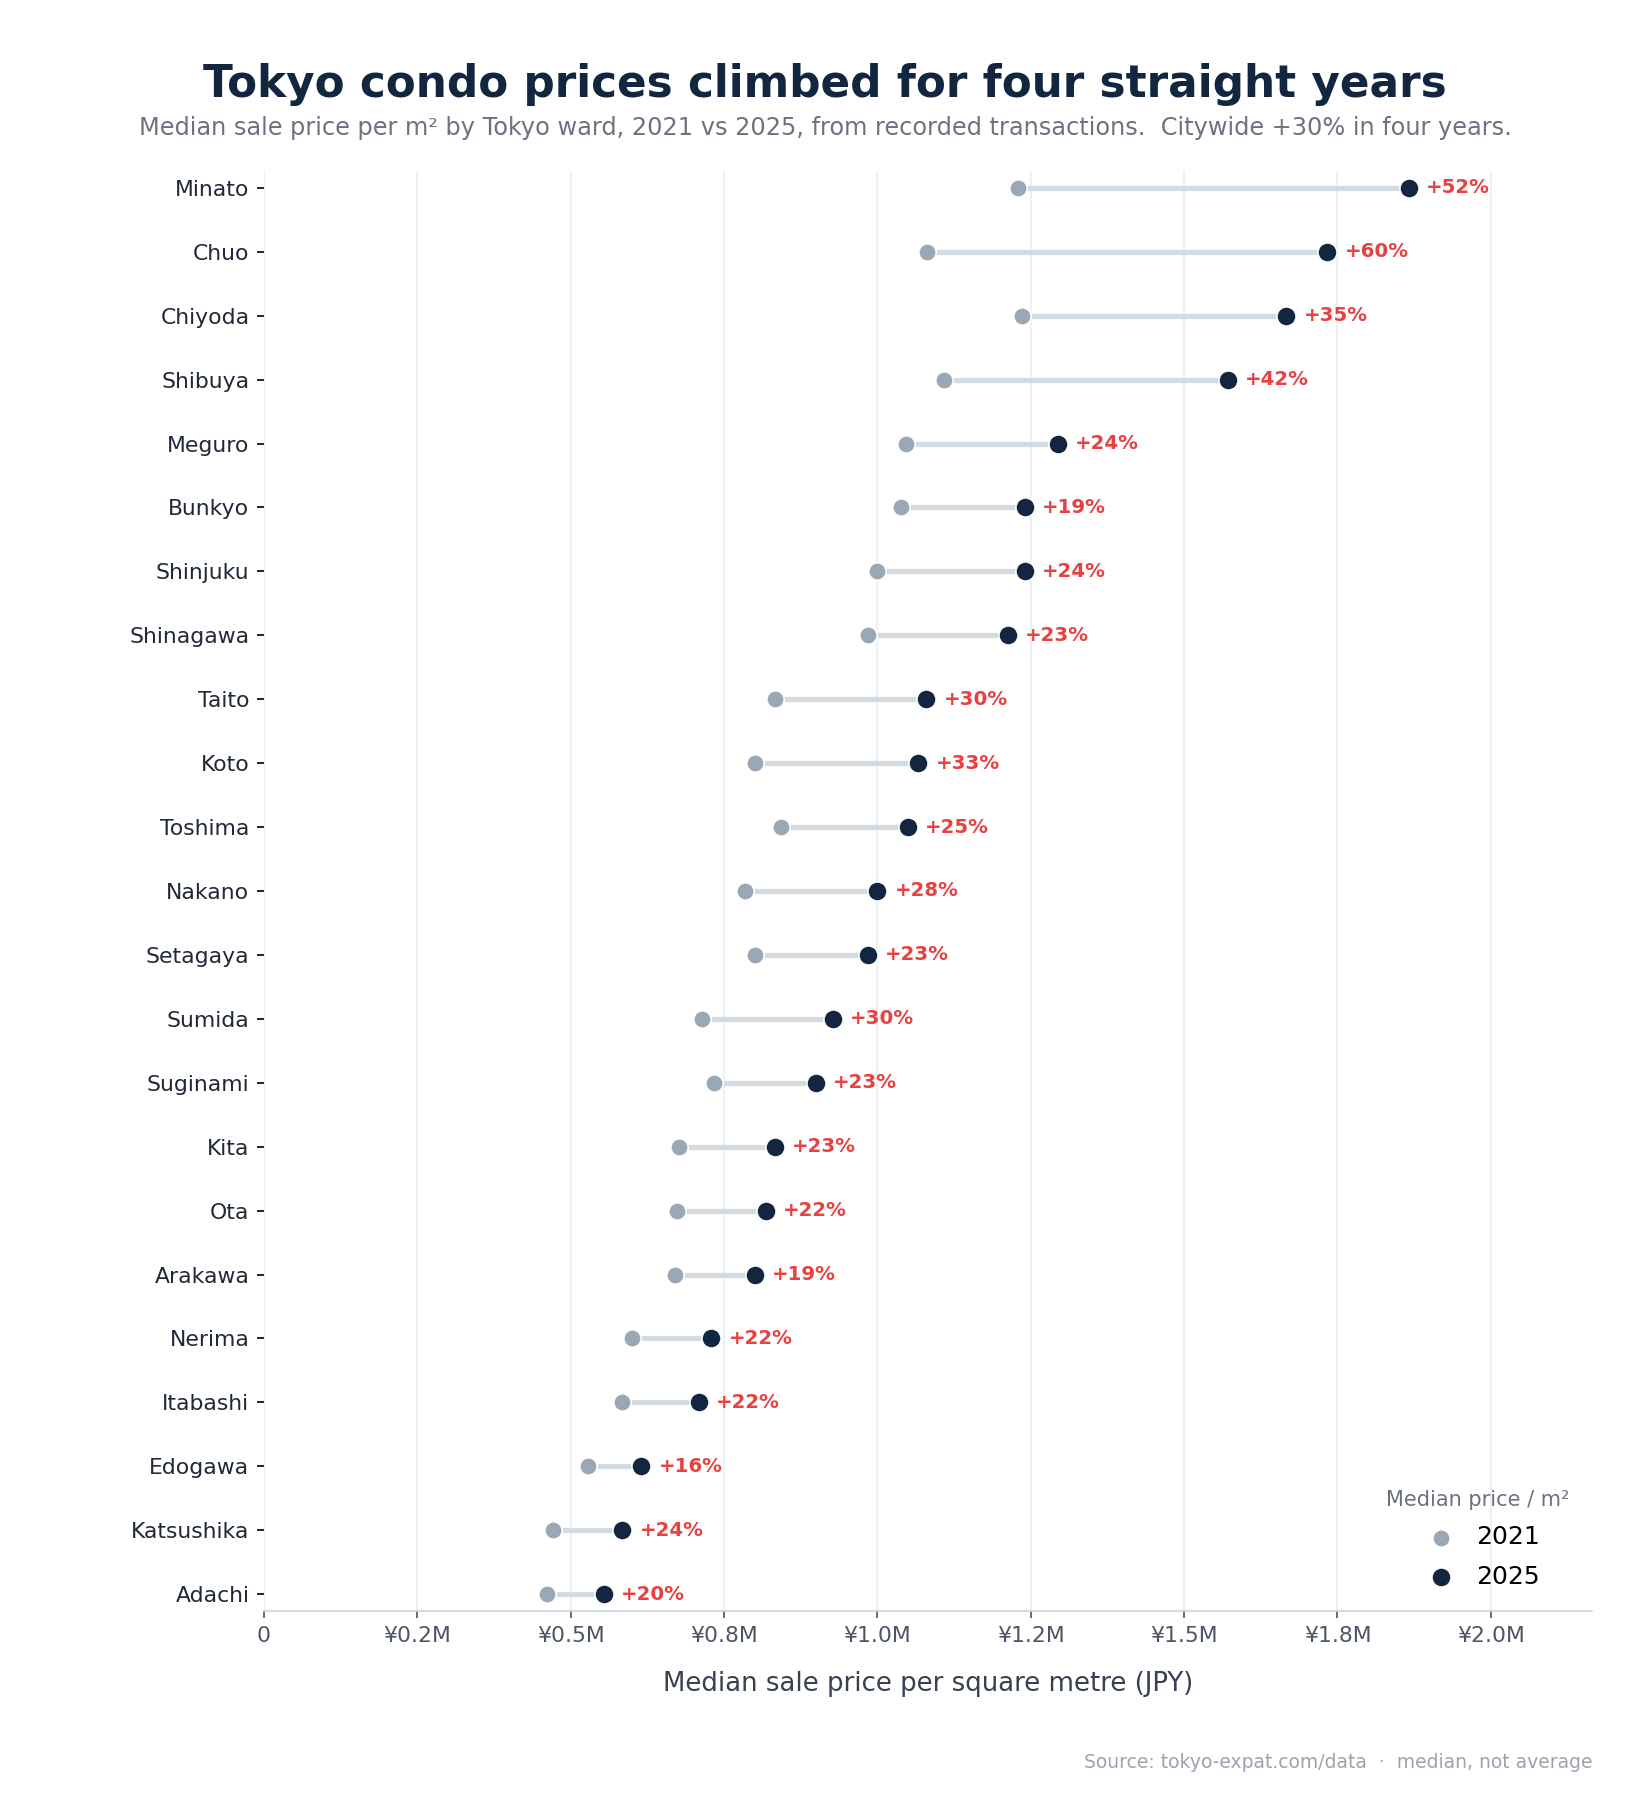
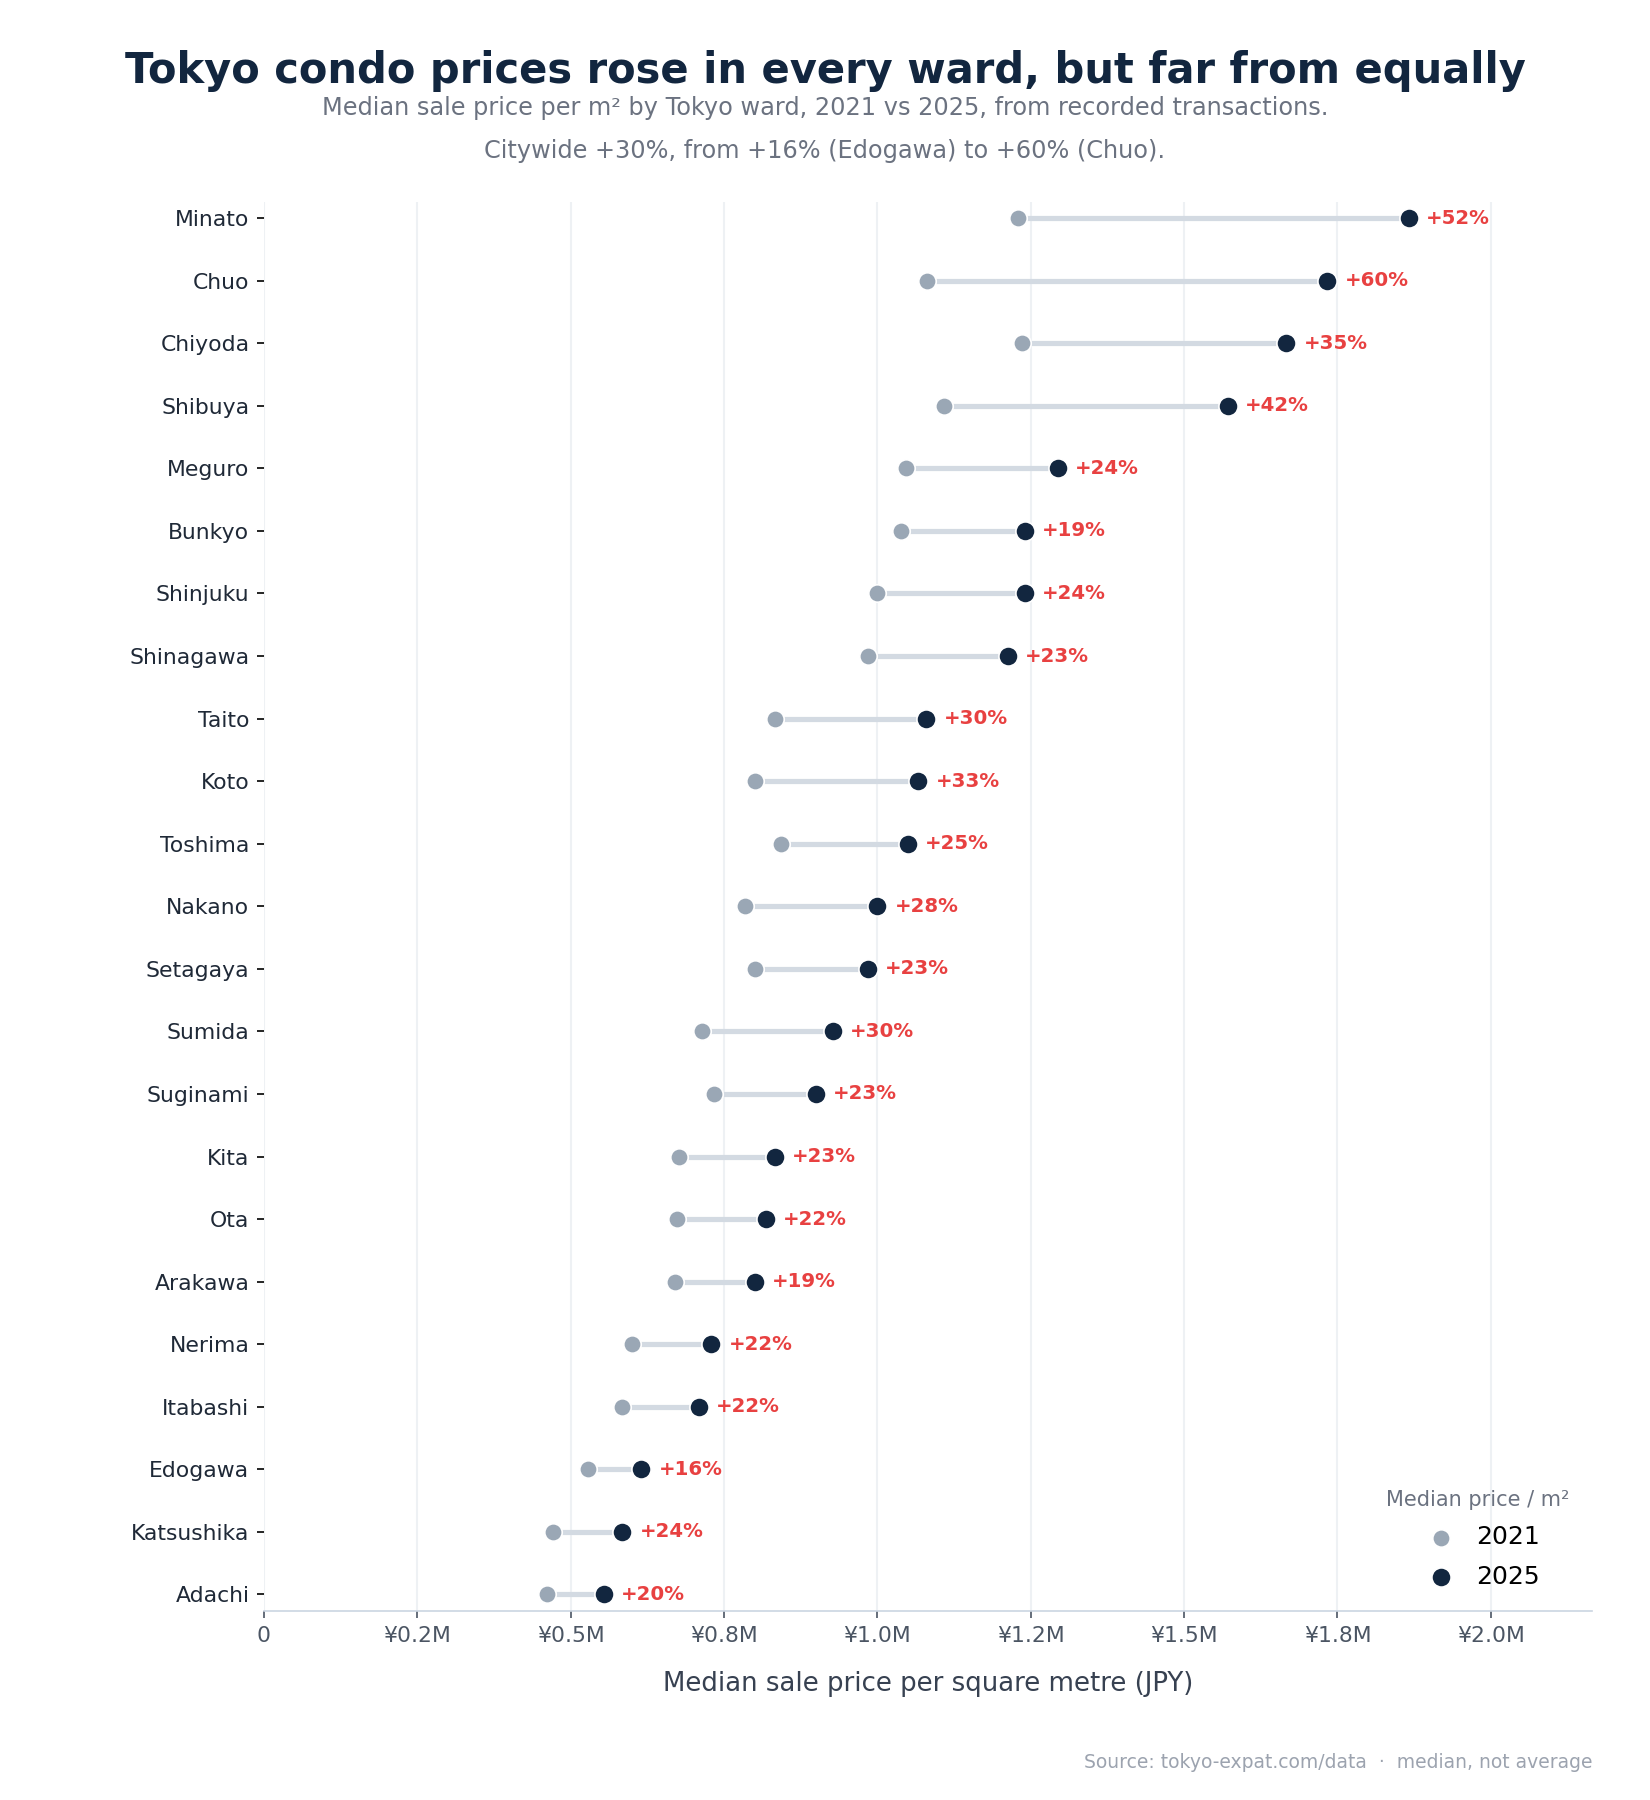
fix(chart): titre prix non defendable ('four straight years' sur 2 points)
Le graphique ne montre que 2 dates (2021 vs 2025), il ne peut pas prouver
4 hausses consecutives -> indefendable sur r/dataisbeautiful et contraire
a la regle no-overclaiming. Nouveau titre = ce que les 2 points prouvent
reellement: hausse partout, tres inegale (+16% Edogawa a +60% Chuo), la
fourchette etant justement le hook. Sous-titre passe sur 2 lignes (en 1 il
debordait de la figure). Commentaire ajoute dans le generateur pour ne pas
reintroduire l'erreur au prochain refresh. public/ resynchronise (le blog
sert public/, pas outreach/).

Changed region(s): [[0.0618, 0.0311, 0.9273, 0.7467], [0.3709, 0.7778, 0.4636, 0.84], [0.0927, 0.8089, 0.1545, 0.8711]]

diff --git a/scripts/generate_price_chart.py b/scripts/generate_price_chart.py
@@ -72,12 +72,21 @@ leg.get_title().set_fontsize(10)
 leg.get_title().set_color("#6b7280")
 
 # titre + sous-titre (style coherent)
-plt.subplots_adjust(top=0.905, bottom=0.105, left=0.16, right=0.965)
-fig.suptitle("Tokyo condo prices climbed for four straight years",
-             fontsize=21, fontweight="bold", color=NAVY, x=0.5, y=0.965)
-fig.text(0.5, 0.925,
-         f"Median sale price per m² by Tokyo ward, {yf} vs {yt}, from recorded transactions.  "
-         f"Citywide +{pct_city:.0f}% in four years.",
+plt.subplots_adjust(top=0.888, bottom=0.105, left=0.16, right=0.965)
+# NB titre: ne JAMAIS affirmer une progression annuelle ("four straight years") --
+# le graphique ne montre que 2 points (yf vs yt), c'est indefendable sur r/dataisbeautiful.
+# Le titre ne doit dire que ce que les 2 points prouvent: hausse partout, tres inegale.
+_lo = min(d["wards"], key=lambda w: w["pct"])
+_hi = max(d["wards"], key=lambda w: w["pct"])
+fig.suptitle("Tokyo condo prices rose in every ward, but far from equally",
+             fontsize=20, fontweight="bold", color=NAVY, x=0.5, y=0.972)
+# sous-titre sur 2 lignes: en 1 seule il deborde de la figure (verifie visuellement 23/07)
+fig.text(0.5, 0.936,
+         f"Median sale price per m² by Tokyo ward, {yf} vs {yt}, from recorded transactions.",
+         ha="center", fontsize=11.5, color="#6b7280")
+fig.text(0.5, 0.912,
+         f"Citywide +{pct_city:.0f}%, from +{_lo['pct']:.0f}% ({_lo['ward_en']}) "
+         f"to +{_hi['pct']:.0f}% ({_hi['ward_en']}).",
          ha="center", fontsize=11.5, color="#6b7280")
 ax.set_xlabel("Median sale price per square metre (JPY)", fontsize=12.5, color="#374151", labelpad=12)
 fig.text(0.965, 0.018, "Source: tokyo-expat.com/data  ·  median, not average",